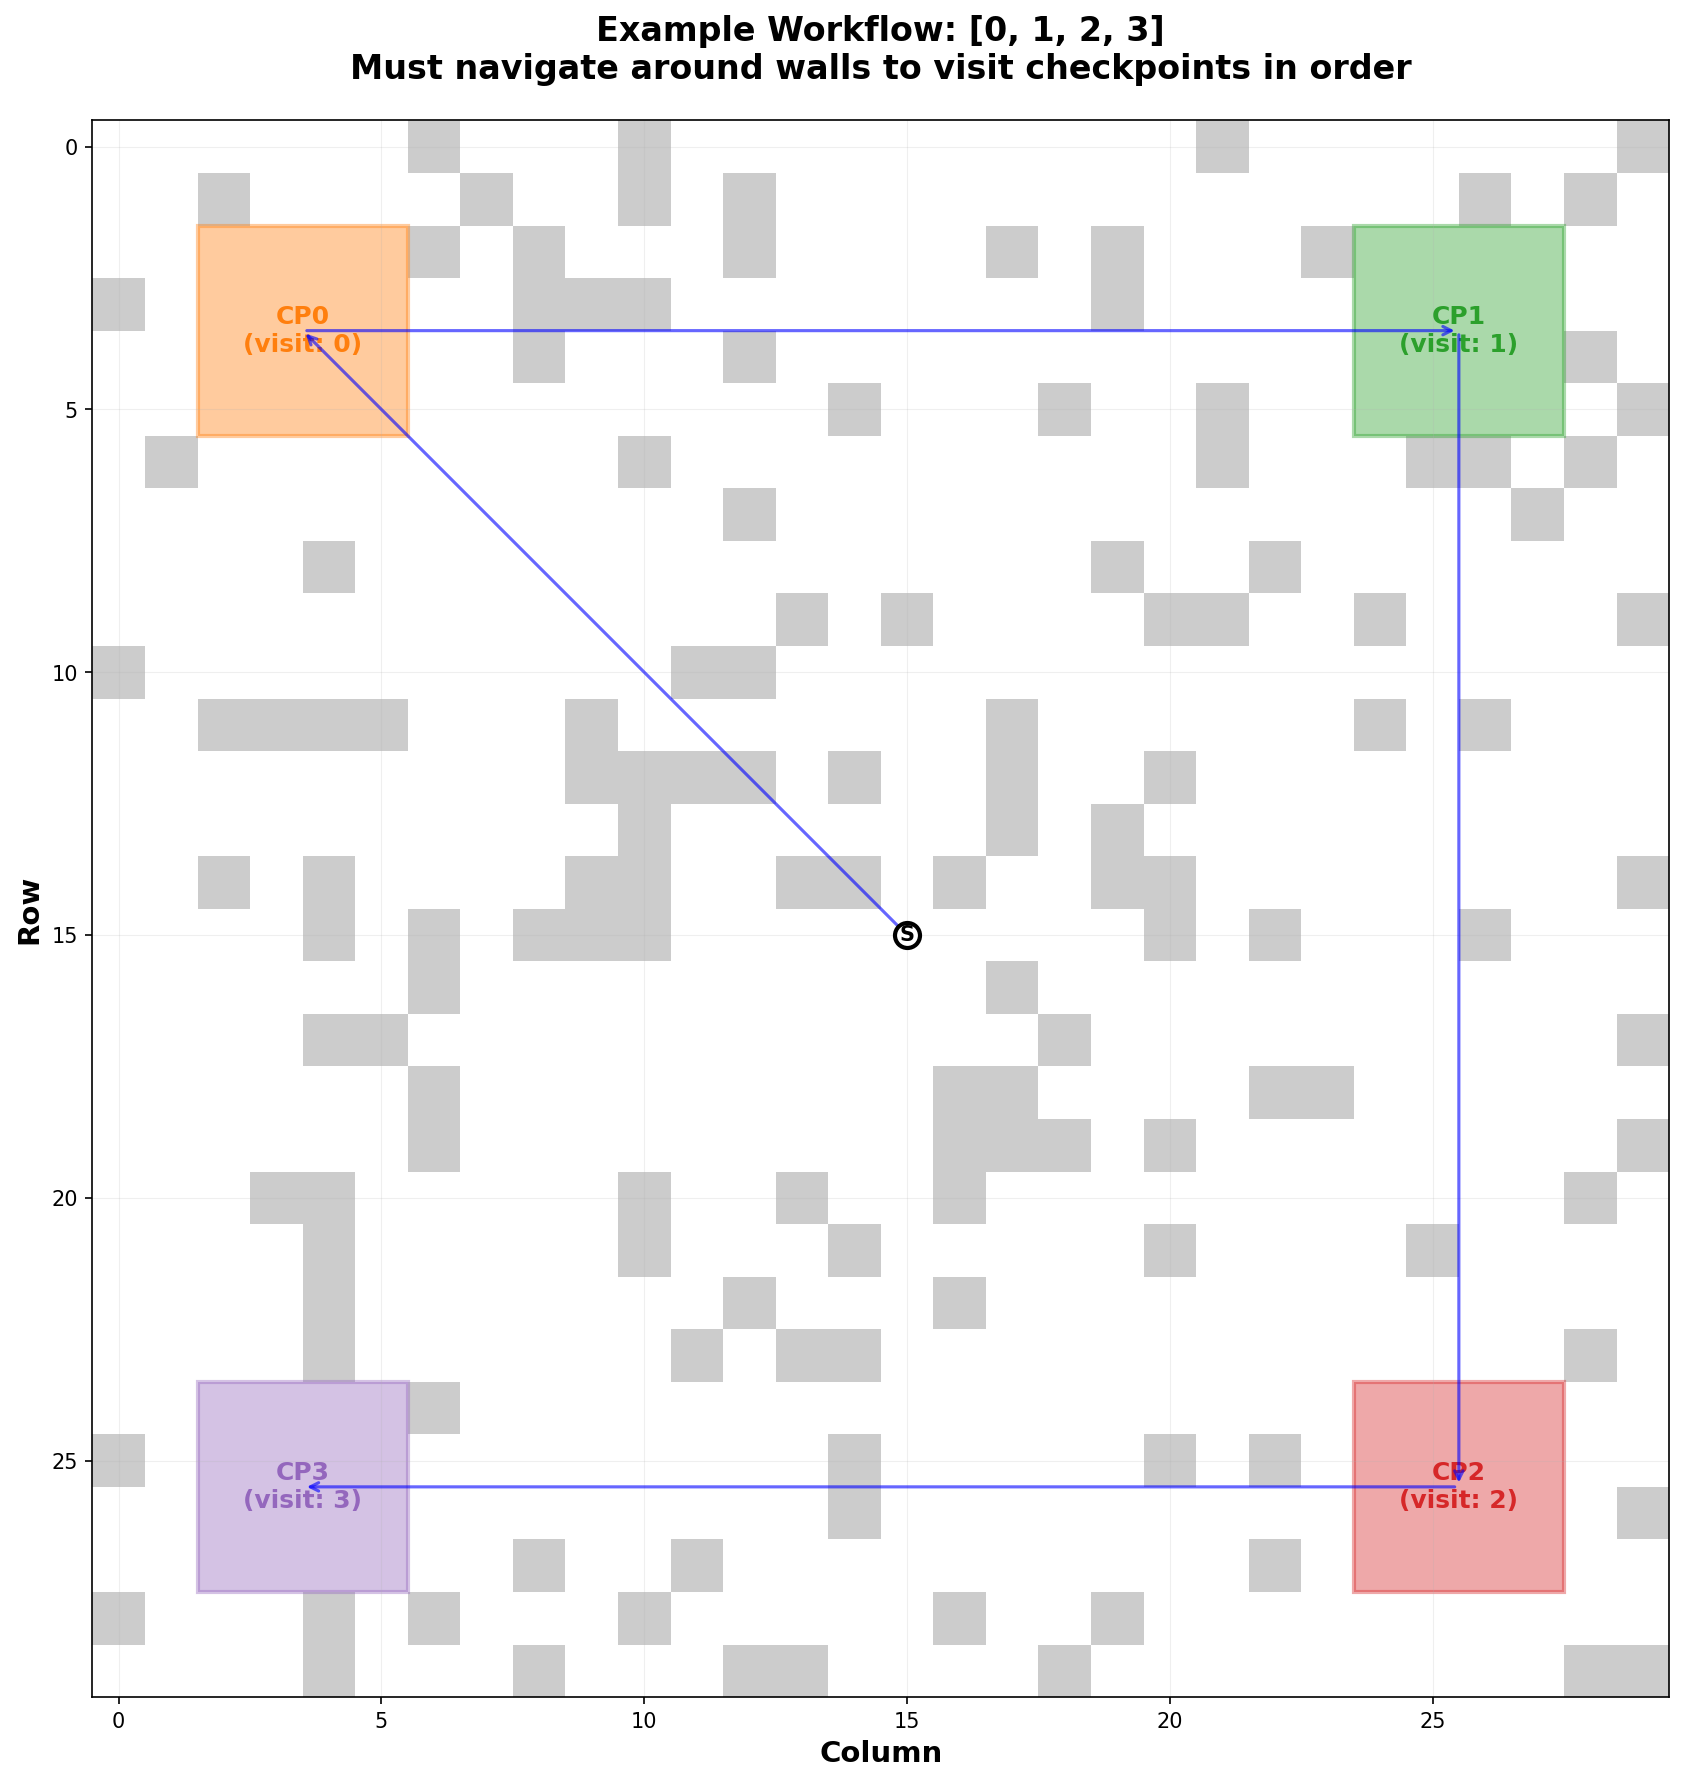
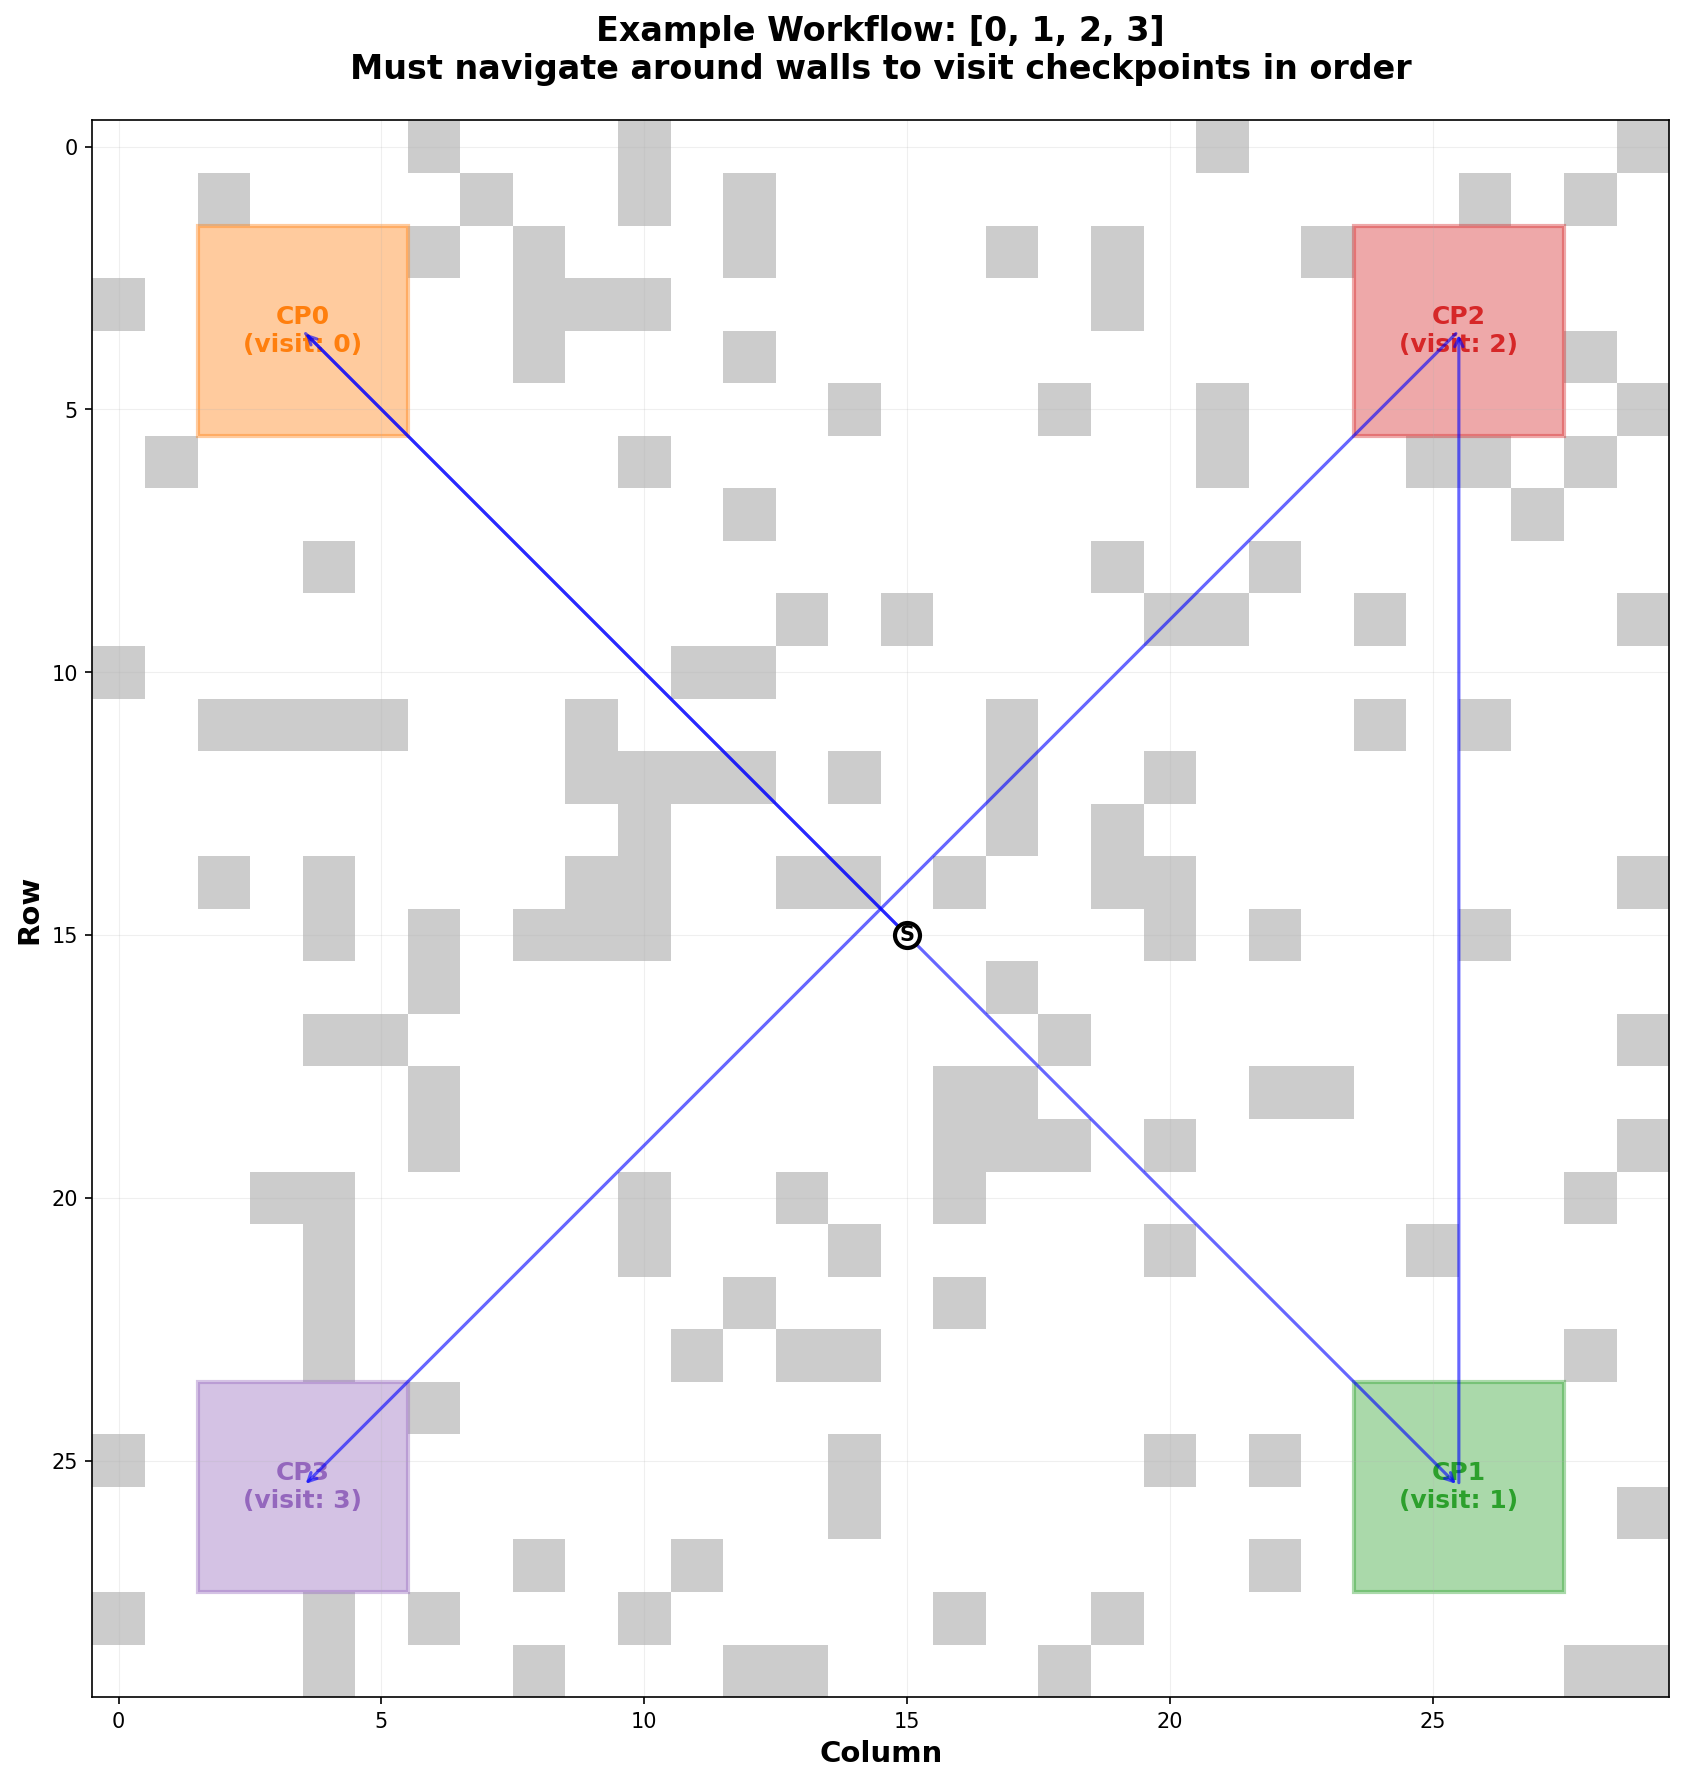
Rearrange maze checkpoints for diagonal crisscross pattern: canonical [0,1,2,3] now requires full-map traversal instead of clockwise

diff --git a/core/obstacle_maze_env.py b/core/obstacle_maze_env.py
@@ -1,13 +1,14 @@
 """
 Obstacle Maze Environment - 4 checkpoint regions on 30x30 grid with random obstacles.
 
-Checkpoints (each 4×4):
+Checkpoints (each 4×4) - positioned for diagonal crisscross traversal:
 - CP0: top-left (rows 2-5, cols 2-5)
-- CP1: top-right (rows 2-5, cols 24-27)
-- CP2: bottom-right (rows 24-27, cols 24-27)
+- CP1: bottom-right (rows 24-27, cols 24-27)
+- CP2: top-right (rows 2-5, cols 24-27)
 - CP3: bottom-left (rows 24-27, cols 2-5)
 
-Agent starts at center (15, 15). Task: enter checkpoints in specified workflow order.
+Canonical order [0,1,2,3] creates full-map diagonal traversal pattern.
+Agent starts at center (15, 15).
 Random walls are placed with controllable density; connectivity is verified.
 """
 
@@ -42,18 +43,19 @@ class ObstacleMazeEnv(gym.Env):
         self.observation_space = spaces.Box(low=0, high=self.grid_size - 1, shape=(2,), dtype=np.int32)
 
         # Define 4 checkpoint regions (4×4 each): (r_min, r_max, c_min, c_max)
+        # Positioned for diagonal crisscross: 0(TL) → 1(BR) → 2(TR) → 3(BL)
         self.checkpoints: List[Tuple[int, int, int, int]] = [
             (2, 5, 2, 5),       # CP0: top-left
-            (2, 5, 24, 27),     # CP1: top-right
-            (24, 27, 24, 27),   # CP2: bottom-right
-            (24, 27, 2, 5),     # CP3: bottom-left
+            (24, 27, 24, 27),   # CP1: bottom-right (diagonal from CP0)
+            (2, 5, 24, 27),     # CP2: top-right
+            (24, 27, 2, 5),     # CP3: bottom-left (diagonal from CP2)
         ]
         # Checkpoint centers for potential computation
         self.checkpoint_centers: List[Tuple[int, int]] = [
-            (3, 3),   # CP0
-            (3, 25),  # CP1
-            (25, 25), # CP2
-            (25, 3),  # CP3
+            (3, 3),   # CP0: top-left
+            (25, 25), # CP1: bottom-right
+            (3, 25),  # CP2: top-right
+            (25, 3),  # CP3: bottom-left
         ]
         self.start_pos: Tuple[int, int] = (15, 15)
         self.correct_order: List[int] = [0, 1, 2, 3]
